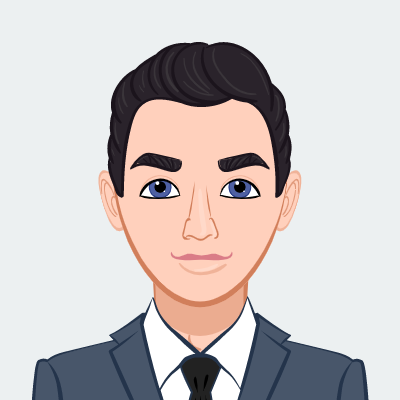
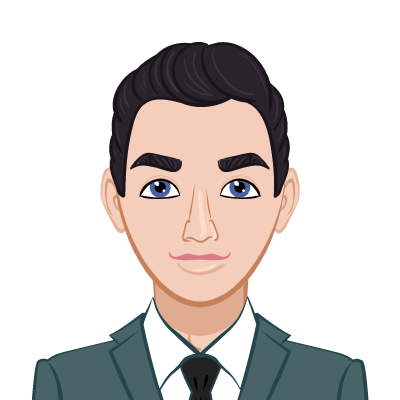
Add all people

diff --git a/wedding/index.html b/wedding/index.html
@@ -22,7 +22,7 @@
         <div id="landing">
             <section class="page-section bg-primary text-white max-height">
                 <div class="container" id="landing-text">
-                    <h2 class=" text-center text-white line-height-3">Alex & Annika Wedding</h2>
+                    <h2 class="large-text text-center text-white">Alex & Annika Wedding</h2>
                     <h3 class="text-center text-uppercase text-white">July 14-16, 2025 - Galiano Island</h3>
                     <div class="row">
                         <div class="col-lg-12 ms-auto">
@@ -240,6 +240,11 @@
                     <h2 class="page-section-heading text-center text-secondary">Update Your Status</h2>
                     <div class="row">
                         <div class="col-lg-12 ms-auto">
+                            <p class="lead mb-0">
+                                We've already recorded your response, but if things have changed you can 
+                                update it here.
+                            </p>
+                            <br>
                             <p class="lead mb-0">
                                 What is your RSVP status?
                             </p>

diff --git a/wedding/js/scripts.js b/wedding/js/scripts.js
@@ -118,7 +118,8 @@ function build_person_mappings() {
 function fill_modal(person_name) {
     let person = person_to_info[person_name];
     document.getElementById("modal-name").innerHTML = person_name;
-    document.getElementById("modal-image").src = `assets/img/people/${person_name.toLowerCase()}.png`;
+    let person_file_name = person_name.toLowerCase().replace(" ", "-");
+    document.getElementById("modal-image").src = `assets/img/people/${person_file_name}.png`;;
 
     let person_description = (
         `
@@ -202,7 +203,8 @@ function populate_cabins() {
 
             let person_avatar = document.createElement("img")
             person_avatar.setAttribute("class", "mini-avatar")
-            person_avatar.setAttribute("src", `assets/img/people/${person_name.toLowerCase()}.png`)
+            let person_file_name = person_name.toLowerCase().replace(" ", "-");
+            person_avatar.setAttribute("src", `assets/img/people/${person_file_name}.png`)
             person_icon_dom.appendChild(person_avatar)
 
             let person_text = document.createElement("p")
